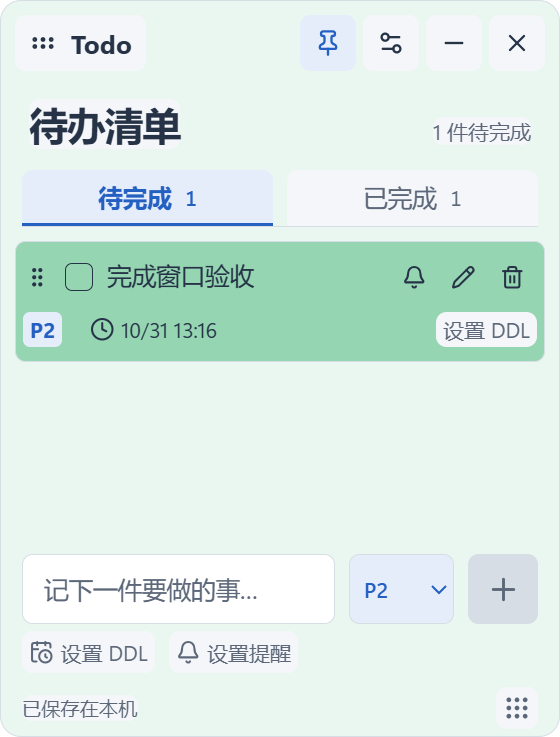
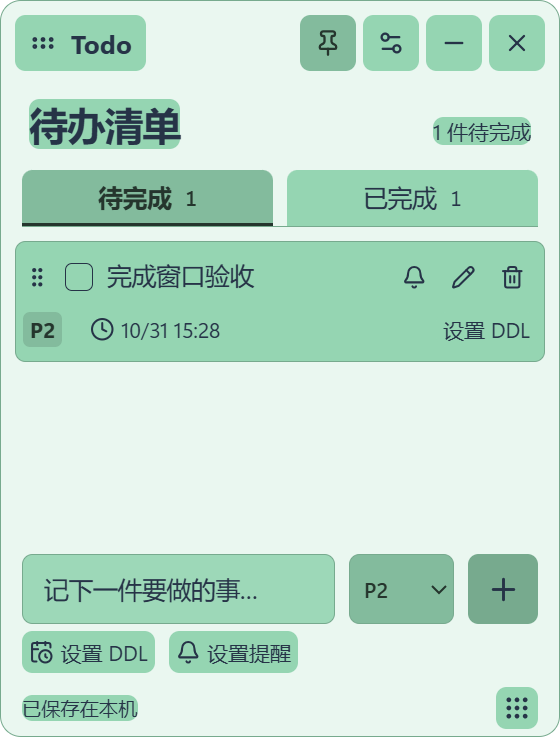
feat: apply selected color to the entire widget

diff --git a/src/styles.css b/src/styles.css
@@ -12,6 +12,7 @@
   --color-accent: #245fc2;
   --color-accent-hover: #1c4d9e;
   --color-accent-soft: #e5edfb;
+  --color-on-accent: #ffffff;
   --color-danger: #a32636;
   --color-danger-soft: #fbe7ea;
   --color-warning: #805218;
@@ -38,7 +39,7 @@ button:focus-visible, input:focus-visible, textarea:focus-visible, select:focus-
 button:disabled { cursor: default; color: var(--color-muted); }
 button:not(:disabled):active { transform: translateY(1px); }
 svg { flex-shrink: 0; pointer-events: none; }
-.widget { height: 100%; width: 100%; min-width: 0; display: flex; flex-direction: column; position: relative; border: 1px solid var(--color-border); border-radius: var(--radius-window); background: rgba(var(--surface-rgb), var(--background-opacity, .88)); overflow: clip; }
+.widget { height: 100%; width: 100%; min-width: 0; display: flex; flex-direction: column; position: relative; color: var(--color-text); border: 1px solid var(--color-border); border-radius: var(--radius-window); background: rgba(var(--surface-rgb), var(--background-opacity, .88)); overflow: clip; }
 .widget-header { flex-shrink: 0; display: flex; justify-content: space-between; align-items: center; padding: var(--space-2) var(--space-2) 0; gap: var(--space-1); }
 .drag-area { min-width: 0; height: 32px; gap: var(--space-2); padding: 0 var(--space-2); cursor: grab; border-radius: var(--radius-small); background: var(--color-surface); font-size: 15px; font-weight: 650; }
 .drag-area:active { cursor: grabbing; }
@@ -63,20 +64,20 @@ h1 { font-size: 22px; line-height: 1.3; font-weight: 650; margin: 0; letter-spac
 .tab-count { font-size: 12px; font-variant-numeric: tabular-nums; }
 .list-scroll { flex: 1; min-height: 0; overflow-y: auto; overflow-x: clip; padding: 0 var(--space-2) var(--space-2); scrollbar-width: thin; scrollbar-color: var(--color-border) transparent; }
 .todo-list { padding: 0; margin: 0; list-style: none; display: flex; flex-direction: column; gap: var(--space-1); }
-.todo-item { position: relative; display: flex; flex-wrap: wrap; align-items: flex-start; gap: var(--space-1); min-height: 44px; padding: var(--space-1); color: var(--task-text, var(--color-text)); background: rgb(var(--surface-rgb)); border: 1px solid var(--color-border); border-radius: var(--radius-small); }
+.todo-item { position: relative; display: flex; flex-wrap: wrap; align-items: flex-start; gap: var(--space-1); min-height: 44px; padding: var(--space-1); background: var(--color-surface); border: 1px solid var(--color-border); border-radius: var(--radius-small); }
 .todo-item.drop-target { border-color: var(--color-accent); }
 .todo-item.dragging { border-style: dashed; }
-.sort-handle { width: 16px; min-width: 16px; height: 32px; cursor: grab; color: var(--task-muted, var(--color-muted)); padding: 0; }
+.sort-handle { width: 16px; min-width: 16px; height: 32px; cursor: grab; color: var(--color-muted); padding: 0; }
 .todo-check { position: relative; display: flex; align-items: center; justify-content: center; min-width: 24px; height: 32px; cursor: pointer; }
 .todo-check input { position: absolute; inset: 0; width: 24px; height: 32px; margin: 0; appearance: none; cursor: pointer; border-radius: var(--radius-small); }
-.check-mark { display: flex; align-items: center; justify-content: center; width: 16px; height: 16px; border: 1px solid var(--task-muted, var(--color-muted)); border-radius: 4px; pointer-events: none; }
-.todo-check input:checked + .check-mark { background: var(--color-accent); border-color: var(--color-accent); color: var(--color-raised); }
+.check-mark { display: flex; align-items: center; justify-content: center; width: 16px; height: 16px; border: 1px solid var(--color-muted); border-radius: 4px; pointer-events: none; }
+.todo-check input:checked + .check-mark { background: var(--color-accent); border-color: var(--color-accent); color: var(--color-on-accent); }
 .todo-text { display: block; min-width: 0; padding: 0 0 var(--space-1); line-height: 1.6; overflow-wrap: anywhere; user-select: text; }
-.completed .todo-text { color: var(--task-muted, var(--color-muted)); text-decoration: line-through; }
+.completed .todo-text { color: var(--color-muted); text-decoration: line-through; }
 .todo-content { flex: 1; min-width: 0; padding: var(--space-1) 0 0; }
 .todo-content .todo-text { padding-bottom: 0; }
 .todo-meta { display: flex; flex: 0 0 100%; min-width: 0; align-items: center; flex-wrap: nowrap; gap: var(--space-4); padding-bottom: var(--space-1); font-size: var(--task-meta-font-size); line-height: var(--task-meta-line-height); white-space: nowrap; }
-.todo-created { display: inline-flex; flex-shrink: 0; align-items: center; gap: var(--space-1); color: var(--task-muted, var(--color-muted)); }
+.todo-created { display: inline-flex; flex-shrink: 0; align-items: center; gap: var(--space-1); color: var(--color-muted); }
 .priority-badge { display: inline-block; flex-shrink: 0; padding: 0 var(--space-1); border-radius: var(--space-1); font-weight: 650; }
 .priority-select { width: 60px; flex-shrink: 0; min-height: 32px; padding: 0 var(--space-1); border: 1px solid var(--color-border); border-radius: var(--radius-small); font-size: 12px; font-weight: 600; cursor: pointer; }
 .priority-select:hover:not(:disabled) { border-color: var(--color-accent); }
@@ -89,11 +90,6 @@ h1 { font-size: 22px; line-height: 1.3; font-weight: 650; margin: 0; letter-spac
 .edit-priority .hint { margin: 0; }
 .todo-actions { display: flex; flex-shrink: 0; }
 .row-button { width: 28px; height: 32px; padding: 0; color: var(--color-muted); border-radius: var(--radius-small); }
-.todo-item .row-button:not(.selected):not(:hover) { color: var(--task-muted, var(--color-muted)); }
-.todo-item .edit-priority .hint, .todo-item .edit-actions .hint, .todo-item .edit-form > .hint { color: var(--task-muted, var(--color-muted)); }
-.todo-item .deadline-editor { color: var(--color-text); }
-.todo-item .deadline-editor legend { background: var(--color-raised); }
-.todo-item .secondary-button:not(:hover) { color: var(--color-text); }
 .todo-item .field-error, .todo-item .delete-confirmation p { background: var(--color-danger-soft); }
 .edit-form { width: 100%; padding: var(--space-1); }
 textarea { width: 100%; min-height: 68px; resize: vertical; border: 1px solid var(--color-border); border-radius: var(--radius-small); padding: var(--space-2); color: var(--color-text); background: var(--color-raised); user-select: text; }
@@ -114,14 +110,14 @@ textarea { width: 100%; min-height: 68px; resize: vertical; border: 1px solid va
 .composer input { width: 0; flex: 1; min-width: 0; height: 40px; border: 1px solid var(--color-border); border-radius: var(--radius-small); padding: 0 var(--space-3); color: var(--color-text); background: var(--color-raised); user-select: text; }
 .composer .priority-select { height: 40px; }
 input::placeholder { color: var(--color-muted); }
-.primary-button { height: 40px; border-radius: var(--radius-small); color: var(--color-raised); background: var(--color-accent); }
+.primary-button { height: 40px; border-radius: var(--radius-small); color: var(--color-on-accent); background: var(--color-accent); }
 .primary-button:hover:not(:disabled) { background: var(--color-accent-hover); }
 .primary-button:disabled { background: var(--color-border); color: var(--color-muted); }
 .add-button { width: 40px; flex-shrink: 0; }
 .deadline-toggle, .reminder-toggle { align-self: flex-start; min-height: 24px; padding: 0 var(--space-1); gap: var(--space-1); font-size: 12px; color: var(--color-muted); border-radius: var(--radius-small); background: var(--color-surface); white-space: nowrap; }
 .deadline-toggle:hover:not(:disabled), .reminder-toggle:hover:not(:disabled) { color: var(--color-accent); background: var(--color-accent-soft); }
 .deadline-editor { min-width: 0; margin: var(--space-2) 0; padding: var(--space-2); border: 1px solid var(--color-border); border-radius: var(--radius-small); background: var(--color-raised); }
-.deadline-editor legend { padding: 0 var(--space-1); font-size: 12px; color: var(--color-muted); }
+.deadline-editor legend { padding: 0 var(--space-1); font-size: 12px; color: var(--color-muted); background: var(--color-raised); }
 .deadline-fields { display: grid; grid-template-columns: minmax(0, 1fr) minmax(0, .7fr); gap: var(--space-2); }
 .deadline-fields label { display: flex; flex-direction: column; min-width: 0; gap: var(--space-1); font-size: 12px; }
 .deadline-fields input { width: 100%; min-width: 0; height: 32px; margin: 0; padding: var(--space-1); border: 1px solid var(--color-border); border-radius: var(--radius-small); background: var(--color-raised); color: var(--color-text); font-size: 12px; }
@@ -139,17 +135,17 @@ input::placeholder { color: var(--color-muted); }
 .widget-footer > span { background: var(--color-surface); border-radius: var(--radius-small); }
 .resize-grip { width: 24px; height: 24px; padding: 0; cursor: nwse-resize; background: var(--color-surface); border-radius: var(--radius-small); }
 .lock-status { display: flex; align-items: center; gap: var(--space-1); }
-.settings-panel { flex: 1; min-height: 0; overflow-y: auto; margin: var(--space-3); padding: var(--space-3); border-radius: var(--radius-small); background: var(--color-surface); scrollbar-width: thin; }
+.settings-panel { flex: 1; min-height: 0; overflow-y: auto; margin: var(--space-3); padding: var(--space-3); border-radius: var(--radius-small); background: var(--color-surface); scrollbar-width: thin; scrollbar-color: var(--color-border) transparent; }
 .settings-panel h1 { margin-bottom: var(--space-3); }
 .back-button { padding: var(--space-1) 0; margin-bottom: var(--space-3); gap: var(--space-1); font-size: 12px; color: var(--color-muted); border-radius: var(--radius-small); }
 .setting-row { display: flex; align-items: center; justify-content: space-between; gap: var(--space-2); padding: var(--space-3) 0; border-bottom: 1px solid var(--color-border); cursor: pointer; }
 .setting-row span { display: flex; flex-direction: column; gap: var(--space-1); }
 .setting-row strong { font-size: 14px; font-weight: 600; }
 .setting-row small { font-size: 12px; color: var(--color-muted); line-height: 1.5; }
-.switch { width: 36px; min-width: 36px; height: 20px; border-radius: 12px; appearance: none; background: var(--color-muted); position: relative; margin: 0; cursor: pointer; }
-.switch::before { content: ''; position: absolute; width: 14px; height: 14px; background: var(--color-raised); left: 3px; top: 3px; border-radius: 50%; transition: transform 120ms var(--ease-feedback); }
+.switch { width: 36px; min-width: 36px; height: 20px; border-radius: 12px; appearance: none; background: var(--color-border); position: relative; margin: 0; cursor: pointer; }
+.switch::before { content: ''; position: absolute; width: 14px; height: 14px; background: var(--color-text); left: 3px; top: 3px; border-radius: 50%; transition: transform 120ms var(--ease-feedback); }
 .switch:checked { background: var(--color-accent); }
-.switch:checked::before { transform: translateX(16px); }
+.switch:checked::before { transform: translateX(16px); background: var(--color-on-accent); }
 .color-setting { margin-top: var(--space-4); }
 .color-setting-heading { display: flex; align-items: center; justify-content: space-between; gap: var(--space-2); }
 .color-setting-heading label { font-weight: 600; }
@@ -162,6 +158,11 @@ input[type='color'] { width: 48px; height: 40px; padding: var(--space-1); border
 .opacity-setting label { display: flex; justify-content: space-between; font-weight: 600; }
 .opacity-setting output { color: var(--color-accent); }
 input[type='range'] { width: 100%; margin: var(--space-3) 0 var(--space-1); accent-color: var(--color-accent); cursor: pointer; height: 20px; }
+input[type='range'] { appearance: none; background: transparent; }
+input[type='range']::-webkit-slider-runnable-track { height: var(--space-1); background: var(--color-border); border-radius: var(--radius-small); }
+input[type='range']::-webkit-slider-thumb { appearance: none; width: var(--space-4); height: var(--space-4); margin-top: calc((var(--space-1) - var(--space-4)) / 2); border-radius: 50%; background: var(--color-accent); }
+input[type='range']::-webkit-slider-thumb:hover { background: var(--color-accent-hover); }
+select option { color: var(--color-text); background: var(--color-raised); }
 .range-labels { display: flex; justify-content: space-between; font-size: 11px; color: var(--color-muted); }
 .hint { margin: var(--space-2) 0; font-size: 12px; color: var(--color-muted); line-height: 1.5; }
 .secondary-button { min-height: 40px; padding: var(--space-2) var(--space-3); border: 1px solid var(--color-border); border-radius: var(--radius-small); gap: var(--space-2); background: var(--color-raised); }

diff --git a/src/services/appearance.ts b/src/services/appearance.ts
@@ -14,15 +14,66 @@ function luminance(channels: number[]) {
   return linear[0] * 0.2126 + linear[1] * 0.7152 + linear[2] * 0.0722
 }
 
-export function backgroundAppearance(color: string) {
-  const hex = /^#[\da-f]{6}$/i.test(color) ? color : DEFAULT_BACKGROUND_COLOR
-  const channels = rgb(hex), background = luminance(channels)
-  const contrast = (foreground: string) => {
-    const light = luminance(rgb(foreground))
-    return (Math.max(background, light) + 0.05) / (Math.min(background, light) + 0.05)
+function contrast(first: string, second: string) {
+  const values = [luminance(rgb(first)), luminance(rgb(second))].sort((a, b) => a - b)
+  return (values[1] + 0.05) / (values[0] + 0.05)
+}
+
+function mix(first: string, second: string, amount: number) {
+  const start = rgb(first), end = rgb(second)
+  return '#' + start.map((channel, index) => Math.round(channel + (end[index] - channel) * amount).toString(16).padStart(2, '0')).join('')
+}
+
+function foreground(background: string) {
+  return contrast(TEXT_COLORS.normal, background) >= 4.5 ? TEXT_COLORS.normal
+    : contrast(TEXT_COLORS.light, background) >= 4.5 ? TEXT_COLORS.light : TEXT_COLORS.dark
+}
+
+function surface(base: string, target: string, amount: number, text: string) {
+  for (let step = 10; step >= 0; step -= 1) {
+    const candidate = mix(base, target, amount * step / 10)
+    if (contrast(text, candidate) >= 4.5) return candidate
   }
-  const text = contrast(TEXT_COLORS.normal) >= 4.5 ? TEXT_COLORS.normal
-    : contrast(TEXT_COLORS.light) >= 4.5 ? TEXT_COLORS.light : TEXT_COLORS.dark
-  const muted = contrast(TEXT_COLORS.muted) >= 4.5 ? TEXT_COLORS.muted : text
-  return { rgb: channels.join(', '), text, muted }
+  return base
+}
+
+function readableTint(seed: string, target: string, backgrounds: string[]) {
+  for (let step = 0; step <= 20; step += 1) {
+    const candidate = mix(seed, target, step / 20)
+    if (backgrounds.every(background => contrast(candidate, background) >= 4.5)) return candidate
+  }
+  return target
+}
+
+export function backgroundAppearance(color: string) {
+  const hex = /^#[\da-f]{6}$/i.test(color) ? color.toLowerCase() : DEFAULT_BACKGROUND_COLOR
+  const text = foreground(hex), dark = text === TEXT_COLORS.light
+  const ink = dark ? TEXT_COLORS.light : TEXT_COLORS.dark
+  const raised = surface(hex, TEXT_COLORS.light, 0.08, text)
+  const soft = surface(hex, dark ? TEXT_COLORS.light : TEXT_COLORS.dark, 0.12, text)
+  const border = surface(hex, ink, 0.2, text)
+  const surfaces = [hex, raised, soft, border]
+  const muted = surfaces.every(background => contrast(TEXT_COLORS.muted, background) >= 4.5) ? TEXT_COLORS.muted : text
+  const accent = readableTint(hex, ink, surfaces)
+  const onAccent = foreground(accent)
+  const accentHover = surface(accent, onAccent === TEXT_COLORS.light ? TEXT_COLORS.dark : TEXT_COLORS.light, 0.12, onAccent)
+  const dangerSoft = surface(hex, '#a32636', 0.12, text)
+  const warningSoft = surface(hex, '#805218', 0.12, text)
+  return {
+    '--surface-rgb': rgb(hex).join(', '),
+    '--color-surface': hex,
+    '--color-raised': raised,
+    '--color-border': border,
+    '--color-text': text,
+    '--color-muted': muted,
+    '--color-accent': accent,
+    '--color-accent-hover': accentHover,
+    '--color-accent-soft': soft,
+    '--color-on-accent': onAccent,
+    '--color-danger': readableTint('#a32636', ink, [hex, raised, dangerSoft]),
+    '--color-danger-soft': dangerSoft,
+    '--color-warning': readableTint('#805218', ink, [hex, raised, warningSoft]),
+    '--color-warning-soft': warningSoft,
+    'color-scheme': dark ? 'dark' : 'light',
+  }
 }

diff --git a/tests/appearance.test.ts b/tests/appearance.test.ts
@@ -1,0 +1,49 @@
+import { describe, expect, it } from 'vitest'
+import { backgroundAppearance } from '../src/services/appearance'
+import { DEFAULT_BACKGROUND_COLOR } from '../src/types'
+
+function contrast(first: string, second: string) {
+  const brightness = (hex: string) => [1, 3, 5].map(offset => Number.parseInt(hex.slice(offset, offset + 2), 16) / 255)
+    .map(value => value <= 0.04045 ? value / 12.92 : ((value + 0.055) / 1.055) ** 2.4)
+    .reduce((sum, value, index) => sum + value * [0.2126, 0.7152, 0.0722][index], 0)
+  const values = [brightness(first), brightness(second)].sort((a, b) => a - b)
+  return (values[1] + 0.05) / (values[0] + 0.05)
+}
+
+describe('whole-widget color palette', () => {
+  it('colors panels, fields, borders and actions from the selected color', () => {
+    const theme = backgroundAppearance('#95D5B2')
+    expect(theme['--color-surface']).toBe('#95d5b2')
+    expect(theme['--surface-rgb']).toBe('149, 213, 178')
+    expect(theme['--color-raised']).not.toBe('#ffffff')
+    expect(theme['--color-accent']).not.toBe('#245fc2')
+    expect(theme['--color-accent-soft']).not.toBe('#e5edfb')
+    expect(backgroundAppearance('#000000')['color-scheme']).toBe('dark')
+    expect(backgroundAppearance('#ffffff')['color-scheme']).toBe('light')
+  })
+
+  it('keeps text and actions legible on all their surfaces, including hover and warning states', () => {
+    for (const color of ['#000000', '#ffffff', '#ff0000', '#00ff00', '#0000ff', '#95d5b2', '#777777', '#707070', '#888888', '#ff00ff', '#ffff00', '#1b365d', DEFAULT_BACKGROUND_COLOR]) {
+      const theme = backgroundAppearance(color)
+      for (const surface of ['--color-surface', '--color-raised', '--color-accent-soft', '--color-border'] as const) {
+        expect(contrast(theme['--color-text'], theme[surface]), `${color} text on ${surface}`).toBeGreaterThanOrEqual(4.5)
+        expect(contrast(theme['--color-accent'], theme[surface]), `${color} accent on ${surface}`).toBeGreaterThanOrEqual(4.5)
+      }
+      for (const surface of ['--color-surface', '--color-raised', '--color-accent-soft', '--color-border'] as const) {
+        expect(contrast(theme['--color-muted'], theme[surface]), `${color} secondary text on ${surface}`).toBeGreaterThanOrEqual(4.5)
+      }
+      for (const surface of ['--color-accent', '--color-accent-hover'] as const) {
+        expect(contrast(theme['--color-on-accent'], theme[surface]), `${color} primary action`).toBeGreaterThanOrEqual(4.5)
+      }
+      for (const kind of ['danger', 'warning'] as const) {
+        for (const surface of ['--color-surface', '--color-raised', `--color-${kind}-soft`] as const) {
+          expect(contrast(theme[`--color-${kind}`], theme[surface]), `${color} ${kind} text`).toBeGreaterThanOrEqual(4.5)
+        }
+      }
+    }
+  })
+
+  it('uses the default palette for an invalid stored color', () => {
+    expect(backgroundAppearance('invalid')).toEqual(backgroundAppearance(DEFAULT_BACKGROUND_COLOR))
+  })
+})

diff --git a/src/components/SettingsPanel.vue b/src/components/SettingsPanel.vue
@@ -51,7 +51,7 @@ function resetColor() {
           @change="$emit('update', { backgroundColor: ($event.target as HTMLInputElement).value })" />
         <output for="background-color">{{ color.toUpperCase() }}</output>
       </div>
-      <p class="hint">窗口与任务卡片同步变色，文字自动适配深浅。</p>
+      <p class="hint">按钮、面板、输入框与任务卡片一起变色，文字自动适配深浅。</p>
     </div>
     <div class="opacity-setting"><label for="background-opacity">背景不透明度 <output for="background-opacity">{{ opacity }}%</output></label>
       <input id="background-opacity" type="range" min="20" max="100" step="1" :value="opacity" @input="preview"

diff --git a/src/App.vue b/src/App.vue
@@ -17,12 +17,9 @@ const settingsOpen = ref(false)
 const previewOpacity = ref<number>()
 const previewColor = ref<string>()
 const backgroundStyle = computed(() => {
-  const appearance = backgroundAppearance(previewColor.value ?? settings.value.backgroundColor)
   return {
     '--background-opacity': previewOpacity.value ?? settings.value.backgroundOpacity,
-    '--surface-rgb': appearance.rgb,
-    '--task-text': appearance.text,
-    '--task-muted': appearance.muted,
+    ...backgroundAppearance(previewColor.value ?? settings.value.backgroundColor),
   }
 })
 const directions = ['North', 'NorthEast', 'East', 'SouthEast', 'South', 'SouthWest', 'West', 'NorthWest']

diff --git a/DESIGN.md b/DESIGN.md
@@ -1,20 +1,20 @@
 # Todo Widget
 
-面向 Windows 11 桌面上随手记录任务的个人用户。采用紧凑便笺风格：清晰的中文排版、柔和中性灰和克制的蓝色操作重点。顶部提供拖动区和窗口控制，中间滚动任务，底部固定输入与保存状态。设置面板在相同窗口中切换，不叠加多个弹窗。
+面向 Windows 11 桌面上随手记录任务的个人用户。采用紧凑便笺风格：清晰的中文排版，整套界面跟随用户选择的底色，操作重点通过同色系深浅区分。顶部提供拖动区和窗口控制，中间滚动任务，底部固定输入与保存状态。设置面板在相同窗口中切换，不叠加多个弹窗。
 
 - 默认 320 × 420 DIP，最小 280 × 320 DIP；使用 Segoe UI Variable / Microsoft YaHei UI，正文 14px，标题 22px。
 - 4px 为间距基准；正文、标题、次要文字三级层次。窗口圆角 12px，输入和按钮圆角 6px。
-- 窗口底色默认 244/246/249，可在窗口设置通过原生色盘自选；底色使用 CSS rgba，alpha 由原有 20%–100% 不透明度单独控制。任务卡片同步采用所选底色并保持不透明，任务文字、时间、图标和复选框边框根据底色自动选择至少 4.5:1 对比度的深浅前景。优先级 / DDL 标签、编辑输入及窗口控件保持各自可读的独立底色。
+- 窗口底色默认 244/246/249，可在窗口设置通过原生色盘自选；底色使用 CSS rgba，alpha 由原有 20%–100% 不透明度单独控制。任务卡片、设置面板、输入框、页签、所有按钮、开关、滑块及滚动条统一使用所选颜色派生的 surface / raised / border / accent 等 CSS 变量，并保持不透明。文字、时间、图标及按钮在普通、悬停和选中状态自动选择可读前景，文字对比度至少 4.5:1；主按钮文字单独使用 on-accent 变量。危险和临期提示保留红色 / 琥珀色含义，提示底色也由所选底色混合生成。原生表单控件的 color-scheme 随明暗切换。
 - “背景颜色”显示色块和当前十六进制颜色值；选择时预览，确认后保存。提供“恢复默认”，仅重置颜色，不改变透明度或窗口设置；旧设置缺少颜色字段时使用默认浅灰。
 - 按钮均有明确的无障碍名称及可见焦点。图标统一 Lucide，32px 窗口按钮和 32px 行按钮符合紧凑桌面工具密度；新增和设置主要操作至少 40px。
 - 排序使用拖动柄，也支持在排序柄上按 Alt+上/下；编辑支持 Enter 保存、Esc 取消。长任务自然换行并可查看完整文本。
-- 优先级为 P0 紧急、P1 高、P2 普通、P3 低，默认 P2。任务文字下方显示 P0–P3 紧凑标签，分别使用深红、琥珀、蓝、灰色；悬停与无障碍名称保留等级说明。新增与编辑使用原生下拉框，键盘可操作；修改优先级保留手动排序。
+- 优先级为 P0 紧急、P1 高、P2 普通、P3 低，默认 P2。任务文字下方显示 P0–P3 紧凑标签，分别使用危险色、警告色、主题强调色、次要文字色，底色均跟随主题；悬停与无障碍名称保留等级说明。新增与编辑使用原生下拉框，键盘可操作；修改优先级保留手动排序。
 - 标题下方为“待完成 / 已完成”两个紧凑页签，始终显示各自数量。启动默认待完成，勾选后自动归类但不切换视图。页签支持方向键、Home / End；任务移出当前视图后，焦点移至下一项或当前页签。
 - 已完成任务保留优先级与添加时间，取消勾选可恢复；不显示排序柄。永久删除采用行内两步确认，默认焦点在取消，支持 Esc 返回，不叠加模态窗口。
 - 新任务记录添加时间，以时钟图标加“月/日 时:分”展示，悬停与无障碍名称保留含年份的完整本地时间；旧任务显示“添加时间未知”，不推测历史时间。
 - 任务正文下方使用完整卡片宽度的单行信息栏，优先级、添加时间、DDL 依次横向排列；字号 12px、行高 20px、字段最小间距 16px，时钟图标 14px。DDL 靠信息栏最右侧对齐，吸收添加时间之后的剩余空间。正文底部不叠加留白，保留卡片行间距 4px，使信息栏靠近任务描述。在最小 280 DIP 窗口下也不换行或省略日期。DDL 为可选字段，未设置时显示“设置 DDL”，已设置时显示“DDL 月/日 时:分”；完整剩余时间放入悬停提示和无障碍描述。24 小时内为琥珀色、1 小时内及逾期为红色，逾期时前缀明确改为“逾期”。已完成任务保留截止时间，停止紧迫提示，不改变优先级和手动排序。
 - 新增区的日历按钮展开日期 / 时间字段，已有任务可点击 DDL 直接进入编辑。原生日期、时间控件精确到分钟，只选日期默认 23:59，提供今天、明天、清除按钮。展开区可滚动，最小窗口尺寸下主要控件仍可操作。
-- 新增区的滚动容器四周预留 4px 内边距，容纳 2px 焦点框与 2px 外偏移；外边距同步补偿，保留输入框宽度和水平位置。鼠标与键盘聚焦时，蓝色焦点框四边完整可见，不能在容器左上角被裁切。
+- 新增区的滚动容器四周预留 4px 内边距，容纳 2px 焦点框与 2px 外偏移；外边距同步补偿，保留输入框宽度和水平位置。鼠标与键盘聚焦时，主题强调色焦点框四边完整可见，不能在容器左上角被裁切。
 - 每条任务提供铃铛按钮，直接进入“提醒时间（可选）”编辑器；新增区的“设置提醒”与“设置 DDL”并排放置，两个编辑器分别展开。铃铛有响铃形态与强调状态表示已设置，悬停和无障碍描述显示完整提醒时间及完成状态。提醒字段不挤入原来的单行元信息栏；最窄窗口下行内三个操作按钮仍横排，任务正文自然换行。
 - 提醒编辑器按本地日期与时分设置，提供“10 分钟后”“1 小时后”“清除提醒”。新设置的时间必须在未来，编辑既有任务时保留未修改的历史提醒时间。新增成功后清空提醒草稿；取消编辑不写入。
 - 指定时间提醒一次，独立于 DDL 字段；指定后优先采用该时间。设置中的“DDL 自动提醒”默认关闭，只作用于未单独设置提醒的任务。由 Rust 侧触发，运行或最小化时检查，退出后暂停，重开时补发未发送的到时提醒一次；已发送记录持久化防重复。界面倒计时按系统时间重新计算，不用递减计数。

diff --git a/README.md b/README.md
@@ -8,7 +8,8 @@
 <img src="docs/images/completed.png" alt="已完成任务：查看、恢复和永久删除" width="320" />
 <img src="docs/images/deadlines.png" alt="DDL 截止时间与临近、紧急状态（窗口调整为 320×520）" width="320" />
 <img src="docs/images/reminders.png" alt="任务铃铛与指定时间提醒，可选择日期、时分（窗口调整为 320×600）" width="320" />
-<img src="docs/images/background-color.png" alt="自选背景颜色：窗口与任务卡片同步变色，文字和图标自动适配" width="320" />
+<img src="docs/images/background-color.png" alt="整套界面配色：按钮、输入框、页签与任务卡片同步变色，文字和图标自动适配" width="320" />
+<img src="docs/images/theme-settings.png" alt="背景颜色设置、恢复默认按钮与不透明度滑块跟随所选颜色" width="320" />
 
 ## 下载与安装
 
@@ -35,7 +36,7 @@
 - 每条新任务显示添加时间，编辑、完成和重启均保留；旧任务没有时间记录时显示“添加时间未知”。
 - 可选 DDL 截止时间、实时剩余时间和逾期标记；到时播放简短提示音。
 - 每条待办可设置 P0–P3 优先级，新增、编辑时均可选择，重启后保留。
-- 无边框透明窗口，可自选背景颜色，背景不透明度可在 20%–100% 之间调整，文字与控件保持清晰。
+- 无边框透明窗口，可自选整套界面颜色：按钮、输入框、设置面板、页签、任务卡片与开关一起变色，文字自动适配深浅。背景不透明度可在 20%–100% 之间独立调整。
 - 拖动位置、调整大小、锁定位置，以及随时切换始终置顶。
 - 保存任务、排序、背景颜色与不透明度、置顶、锁定、窗口位置与大小，重启后恢复。
 - 单实例运行：再次双击只唤起已有窗口；窗口最小化时会恢复并获得焦点。
@@ -61,7 +62,7 @@
 | 移动窗口 | 按住顶部的 Todo 区域拖动。 |
 | 调整大小 | 拖动窗口边缘或右下角；最小尺寸为 280 × 320 逻辑像素。 |
 | 始终置顶 | 点击顶部图钉，或在设置中切换。 |
-| 背景颜色 | 在窗口设置中找到“背景颜色”，点击色块打开色盘，自选颜色并确认保存。窗口与任务卡片同步变色，任务文字及图标自动适配深浅。选择时即时预览，重启后恢复；“恢复默认”只还原浅灰底色，保留透明度。 |
+| 背景颜色 | 在窗口设置中找到“背景颜色”，点击色块打开色盘，自选颜色并确认保存。按钮、输入框、面板、页签、任务卡片、开关及滑块一起变色，文字及图标自动适配深浅。选择时即时预览，重启后恢复；“恢复默认”只还原默认配色，保留透明度。 |
 | 锁定 / 背景不透明度 | 点击顶部设置按钮。锁定后仍可编辑任务，但不能移动或缩放窗口。 |
 | 恢复默认位置 | 在设置中点击“回到主屏右上角”，保留当前窗口大小。 |
 | 最小化 / 退出 | 点击减号最小化；叉号或 Alt+F4 保存后退出。再次运行会恢复清单。 |
@@ -151,6 +152,8 @@ npm run tauri -- build --debug --no-bundle -- --locked
 npm run test:native
 npm run test:single-instance
 ```
+
+只验收整套界面配色时，可在完成 Debug 构建后运行 `npm run test:native:theme`；它覆盖模块颜色、悬停对比度、透明度、颜色持久化与窗口设置，跳过较长的声音提醒等待，不替代完整任务与提醒验收。
 
 报告、截图与测试数据生成在本地 `artifacts/` 中，不提交到 Git。测试数据目录覆盖和调试端口只用于测试；发布版不包含测试目录覆盖入口。
 

diff --git a/RELEASE_NOTES.md b/RELEASE_NOTES.md
@@ -1,4 +1,10 @@
-# Todo Widget v0.7.0
+# Todo Widget v0.8.0
+
+选择背景颜色后，整套界面都会同步变色：顶部按钮、待完成 / 已完成页签、任务卡片、输入框、优先级选择器、DDL / 提醒编辑区、设置面板、开关、滑块和滚动条均使用同一套派生配色，悬停、选中及勾选状态一起适配。
+
+文字和图标自动适配深浅底色，主要按钮使用独立的前景色，普通与悬停文字对比度至少 4.5:1。删除、紧急及临期提示保留红色 / 琥珀色含义，提示背景也跟随主题。颜色仍即时预览、确认保存、重启恢复；不透明度继续单独控制窗口底色，文字和控件保持不透明。沿用 v0.7.0 的颜色设置，没有新增依赖、数据字段或权限。
+
+## v0.7.0 自定义背景颜色
 
 窗口设置新增“背景颜色”。点击色块可使用色盘自选颜色，选择时即时预览，确认后保存并在重启时恢复；“恢复默认”还原浅灰底色，保留当前不透明度。
 
@@ -60,4 +66,4 @@
 
 ## 验证范围
 
-前端 37 项、Rust 25 项自动测试、Clippy、Rust 格式、TypeScript 及 Windows EXE / 安装包构建通过。真实 Tauri / WebView2 验收覆盖颜色预览、保存、完整重启恢复、默认色重置、透明度组合与窄窗口布局；黑 / 白 / 红 / 绿底色下，任务文字和时间对比度至少 4.5:1，图标至少 3:1。任务操作、优先级、DDL、窗口定位 / 置顶 / 锁定及权限拒绝回归通过；后台提醒仍只有预期的 5 次音频启动，无 JS 错误。声音仍受音量、静音与输出设备影响。安装 / 卸载和混合 DPI 多屏硬件未新增实机验收。
+前端 40 项、Rust 25 项自动测试、Clippy、Rust 格式、TypeScript 及 Windows EXE / 安装包构建通过。v0.8.0 真实 Tauri / WebView2 主题验收覆盖各模块配色、按钮悬停和选中状态、颜色预览 / 保存 / 完整重启恢复、默认色重置、透明度组合及 280 / 320 / 375 CSS 像素布局；黑 / 白 / 红 / 绿底色下实际文字对比度至少 4.5:1，图标至少 3:1。右上角定位、置顶 / 锁定及权限拒绝检查通过，无 JS 错误。任务操作与长时间声音调度沿用 v0.7.0 已通过的完整验收，本次主题验收没有重复这些等待场景。声音仍受音量、静音与输出设备影响。安装 / 卸载和混合 DPI 多屏硬件未新增实机验收。
